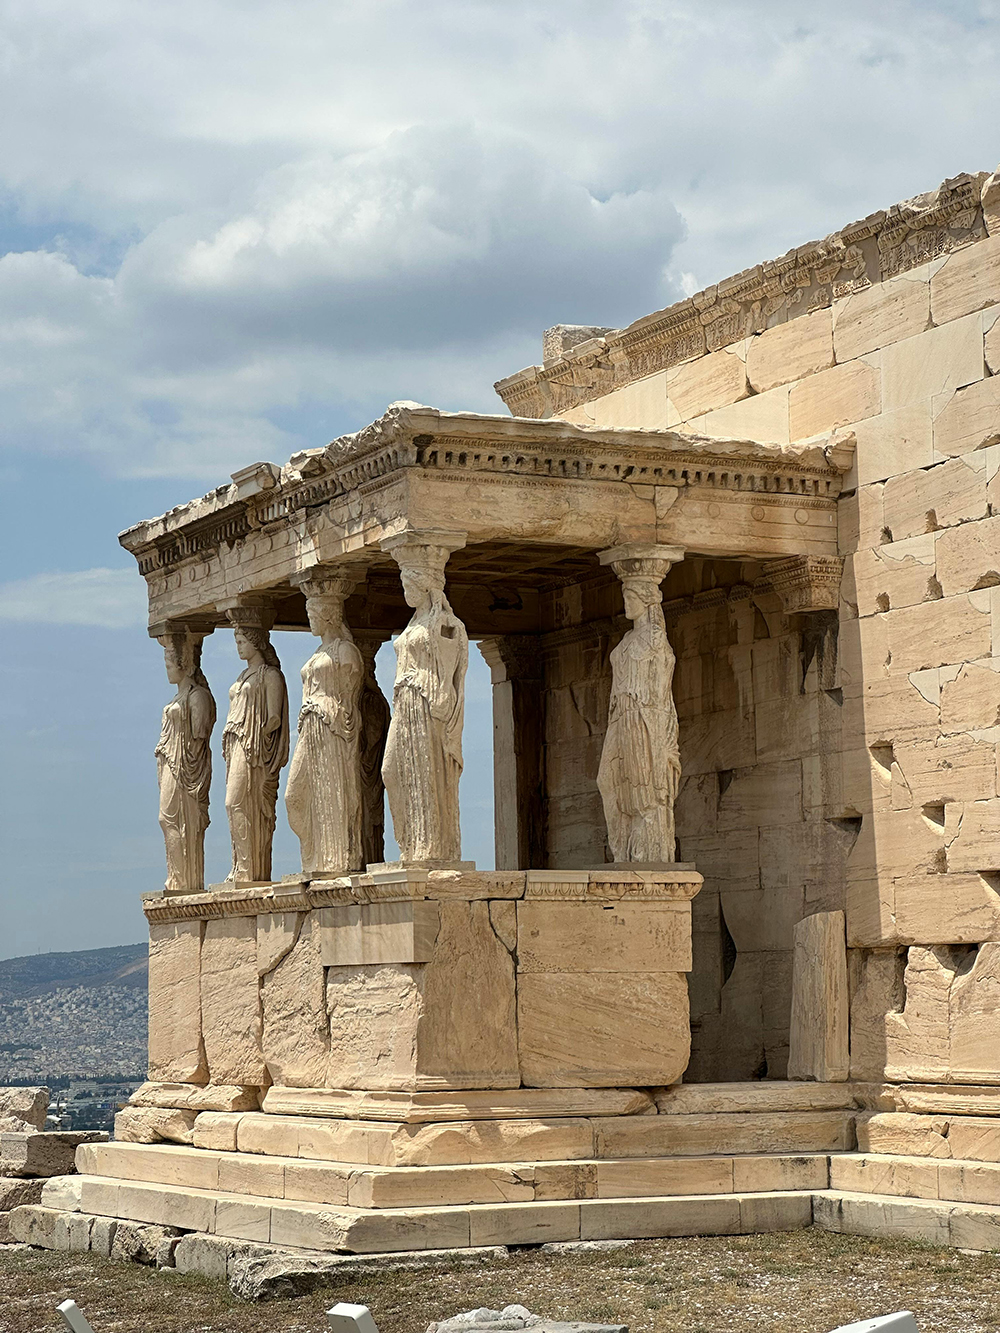
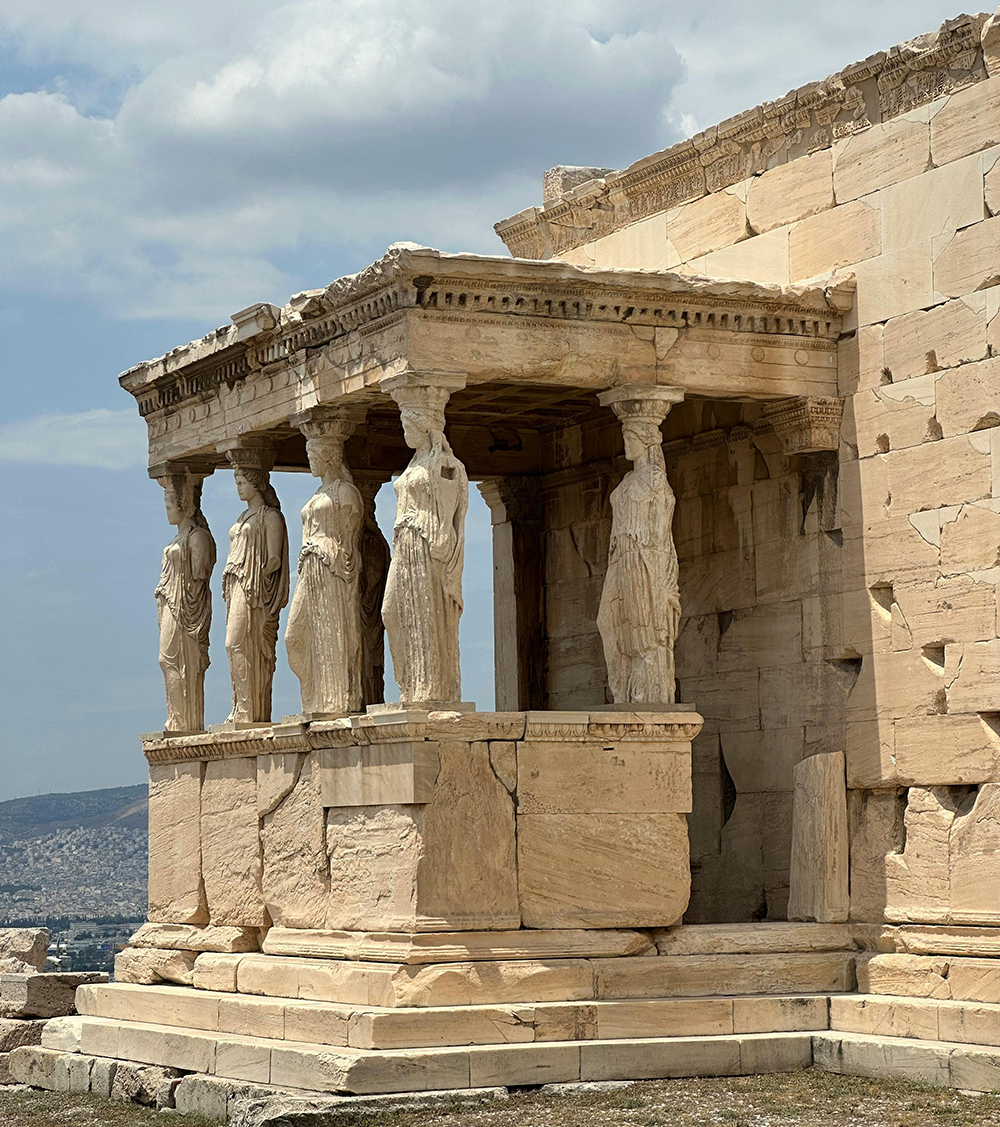
change dimensions of the photo

diff --git a/tourist-guides-app-frontend/src/app/components/welcome/welcome.component.html b/tourist-guides-app-frontend/src/app/components/welcome/welcome.component.html
@@ -3,9 +3,9 @@
   <img class="col-12 d-lg-none" src="odeon-of-herodus-atticus.jpg" alt="Ωδείο Ηρώδου του Αττικού" />
 
   <!-- Image visible to screens from size 'lg' and bigger -->
-  <img class="d-none d-lg-flex col-6"src="caryatides.jpg"alt="Οι Καρυάτιδες στο Ερεχθείο" />
+  <img class="d-none d-lg-flex col-lg-7 col-xl-5" src="caryatides.jpg"alt="Οι Καρυάτιδες στο Ερεχθείο" />
 
-  <div class="col-lg-5 mt-4">
+  <div class="col-lg-5 col-xl-6 mt-4">
     <h2 class="text-blue">
       Καλωσορίσατε στις Ψηφιακές Υπηρεσίες του Σωματείου Διπλωματούχων Ξεναγών
     </h2>
